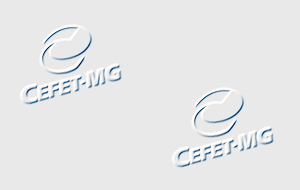
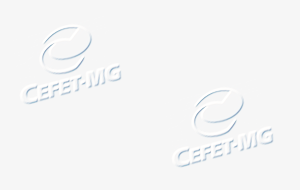
Clareado um pouco o background, que estava muito forte.

diff --git a/public/stylesheets/main.css b/public/stylesheets/main.css
@@ -1,5 +1,5 @@
 body {
-	background: url('../images/cefet.png') #e9e9e9;
+	background: url('../images/cefet.png') #f6f6f6;
 	margin: 0;
 	font-family: 'Helvetica', 'FreeSans', 'Arial', sans-serif;
 }
